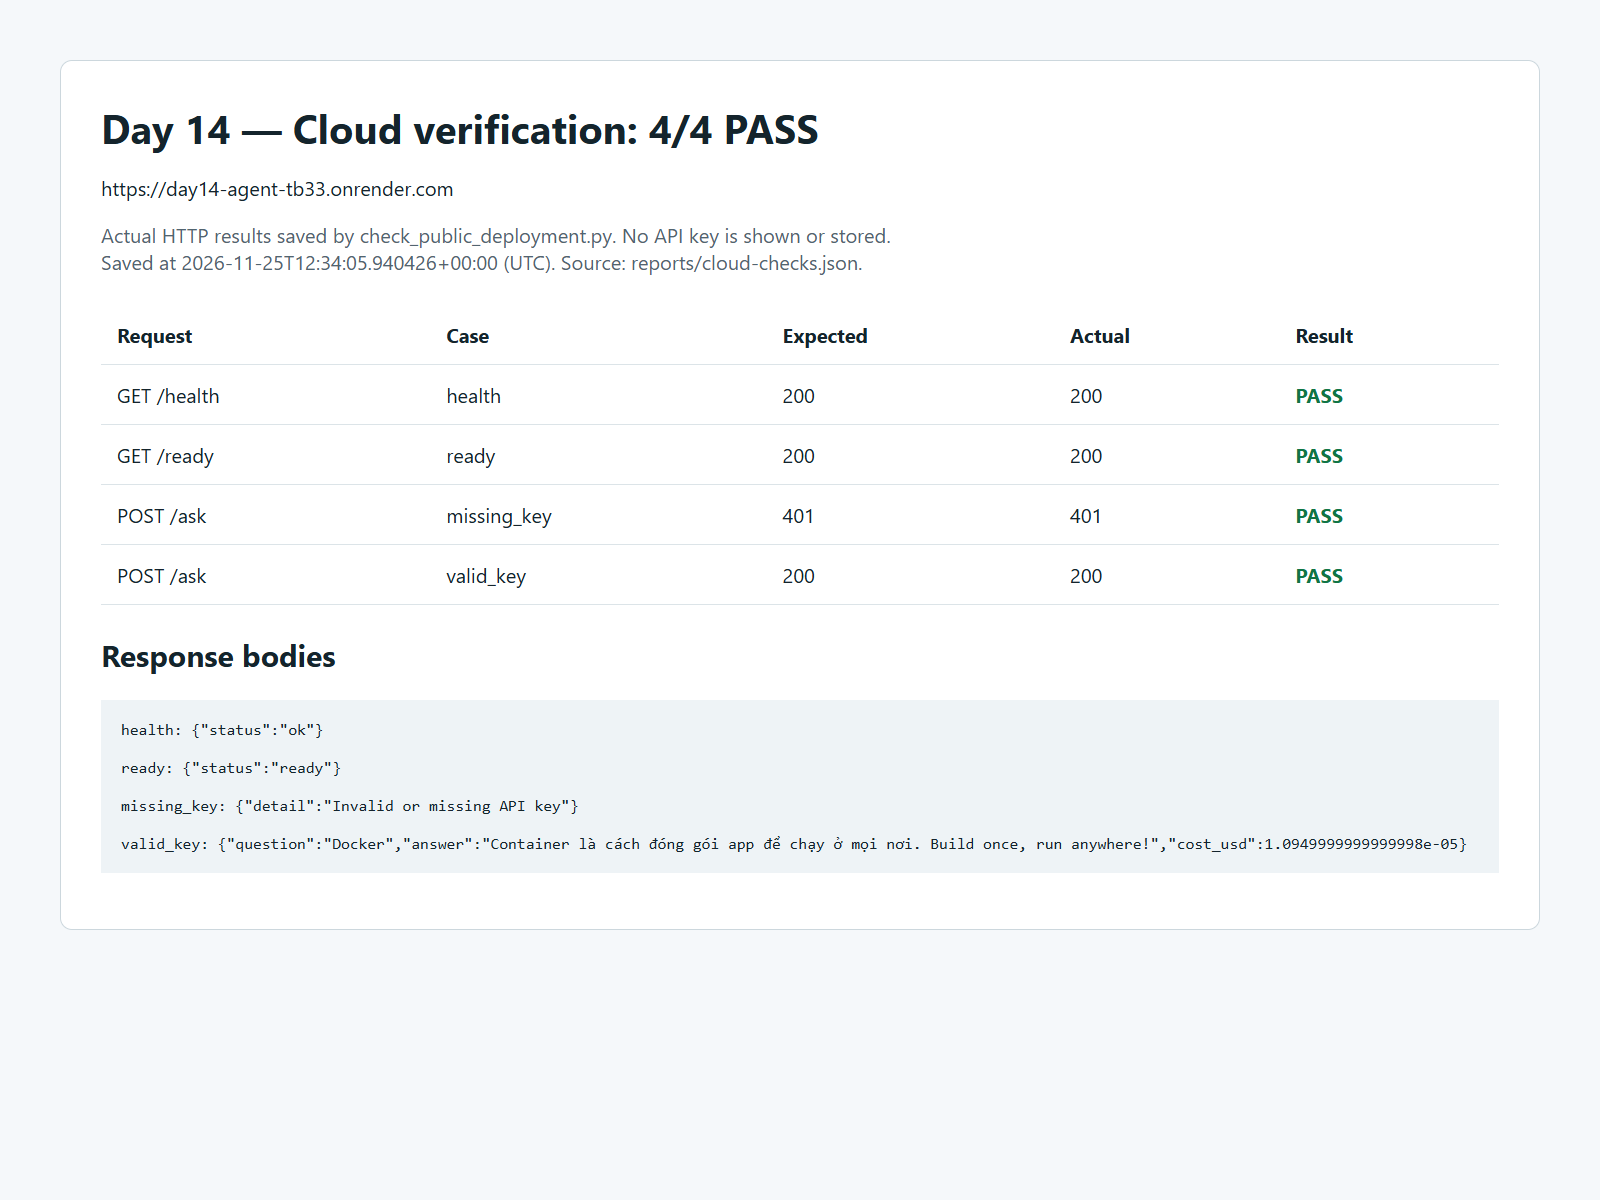
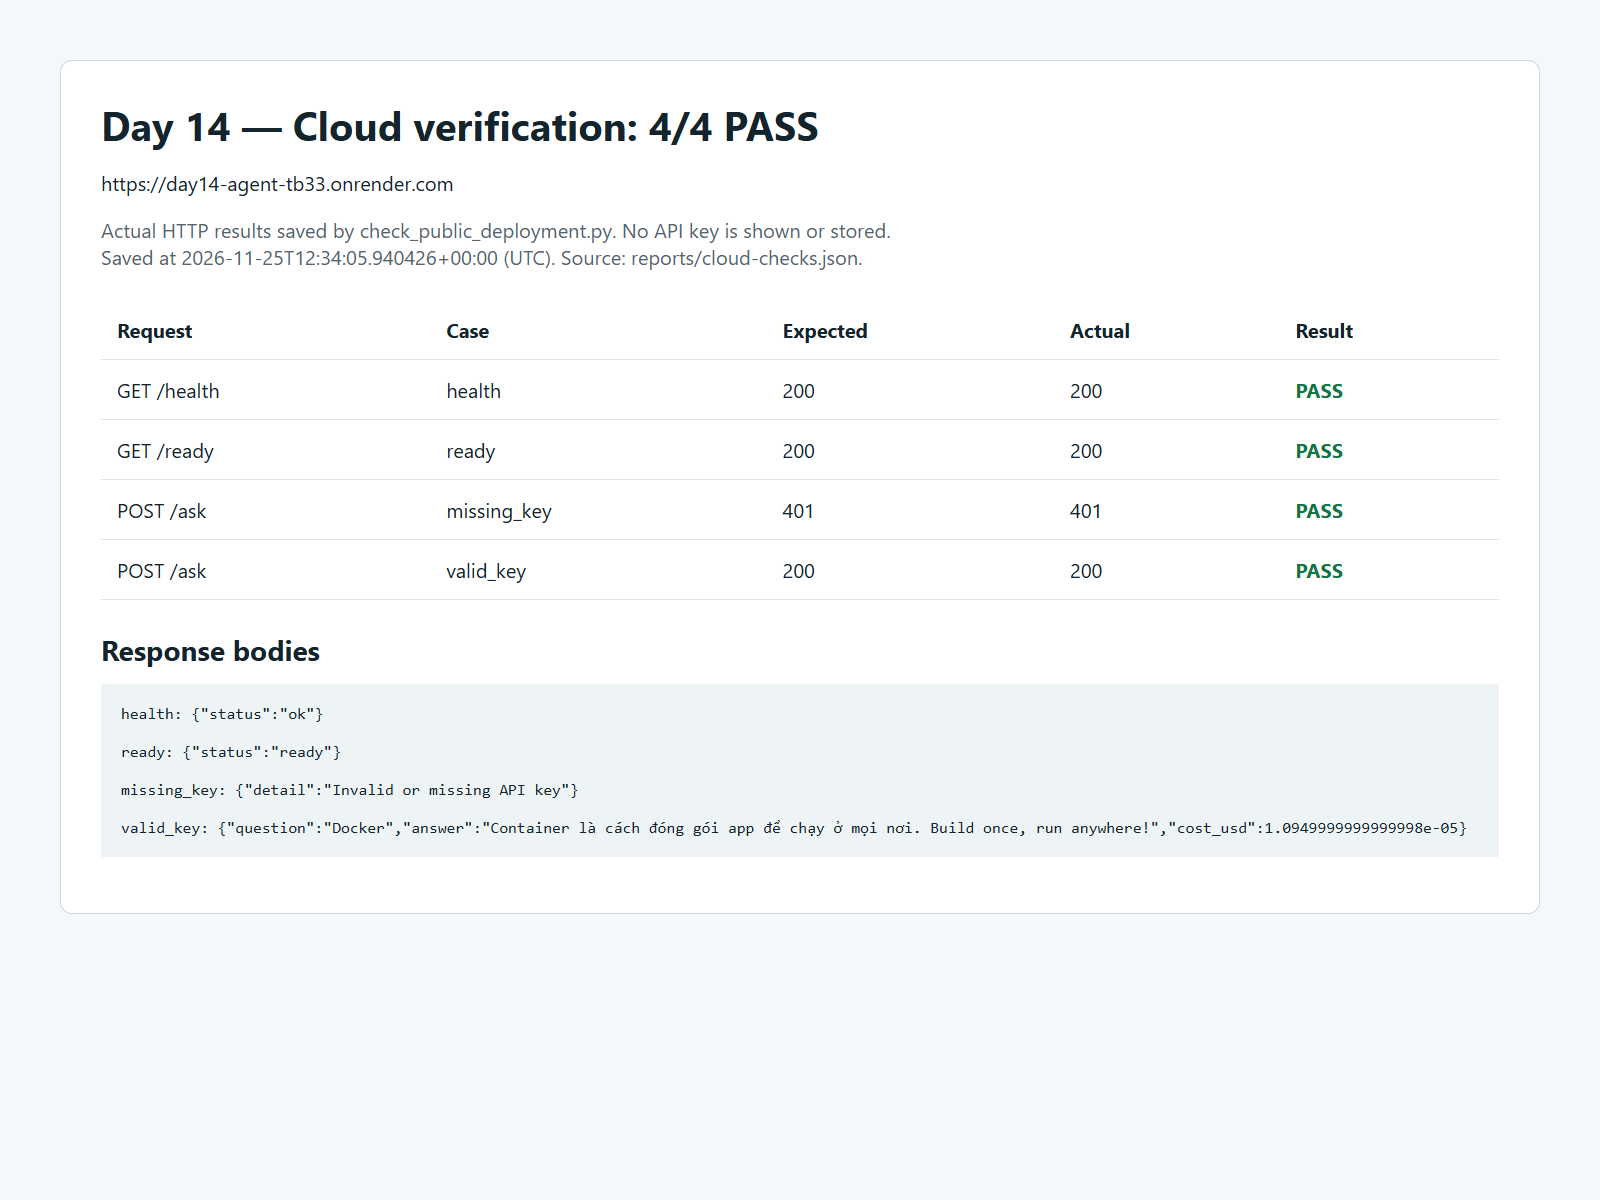
Clarify heading sizes in cloud verification report

diff --git a/reports/cloud-checks.html b/reports/cloud-checks.html
@@ -1,4 +1,4 @@
-<!doctype html><html lang="en"><meta charset="utf-8"><title>Day 14 — Cloud verification</title><style>body{font:20px system-ui;margin:60px;color:#14242c;background:#f5f8fa}main{background:white;padding:40px;border:1px solid #ccd7dd;border-radius:12px}h1{margin:0 0 20px}table{border-collapse:collapse;width:100%;margin:30px 0}th,td{text-align:left;padding:16px;border-bottom:1px solid #dce4e8}td:last-child{color:#117544;font-weight:bold}pre{white-space:pre-wrap;font:16px monospace;background:#eef3f6;padding:20px}.muted{color:#52646f}</style><main><h1>Day 14 — Cloud verification: 4/4 PASS</h1><p>https://day14-agent-tb33.onrender.com</p><p class="muted">Actual HTTP results saved by check_public_deployment.py. No API key is shown or stored.<br>Saved at 2026-11-25T12:34:05.940426+00:00 (UTC). Source: reports/cloud-checks.json.</p><table><tr><th>Request</th><th>Case</th><th>Expected</th><th>Actual</th><th>Result</th></tr><tr><td>GET /health</td><td>health</td><td>200</td><td>200</td><td>PASS</td></tr><tr><td>GET /ready</td><td>ready</td><td>200</td><td>200</td><td>PASS</td></tr><tr><td>POST /ask</td><td>missing_key</td><td>401</td><td>401</td><td>PASS</td></tr><tr><td>POST /ask</td><td>valid_key</td><td>200</td><td>200</td><td>PASS</td></tr></table><h2>Response bodies</h2><pre>health: {&quot;status&quot;:&quot;ok&quot;}
+<!doctype html><html lang="en"><meta charset="utf-8"><title>Day 14 — Cloud verification</title><style>body{font:20px system-ui;margin:60px;color:#14242c;background:#f5f8fa}main{background:white;padding:40px;border:1px solid #ccd7dd;border-radius:12px}h1{font-size:40px;line-height:1.2;margin:0 0 20px}h2{font-size:28px;line-height:1.3;margin:32px 0 16px}table{border-collapse:collapse;width:100%;margin:30px 0}th,td{text-align:left;padding:16px;border-bottom:1px solid #dce4e8}td:last-child{color:#117544;font-weight:bold}pre{white-space:pre-wrap;font:16px monospace;background:#eef3f6;padding:20px}.muted{color:#52646f}</style><main><h1>Day 14 — Cloud verification: 4/4 PASS</h1><p>https://day14-agent-tb33.onrender.com</p><p class="muted">Actual HTTP results saved by check_public_deployment.py. No API key is shown or stored.<br>Saved at 2026-11-25T12:34:05.940426+00:00 (UTC). Source: reports/cloud-checks.json.</p><table><tr><th>Request</th><th>Case</th><th>Expected</th><th>Actual</th><th>Result</th></tr><tr><td>GET /health</td><td>health</td><td>200</td><td>200</td><td>PASS</td></tr><tr><td>GET /ready</td><td>ready</td><td>200</td><td>200</td><td>PASS</td></tr><tr><td>POST /ask</td><td>missing_key</td><td>401</td><td>401</td><td>PASS</td></tr><tr><td>POST /ask</td><td>valid_key</td><td>200</td><td>200</td><td>PASS</td></tr></table><h2>Response bodies</h2><pre>health: {&quot;status&quot;:&quot;ok&quot;}
 
 ready: {&quot;status&quot;:&quot;ready&quot;}
 
